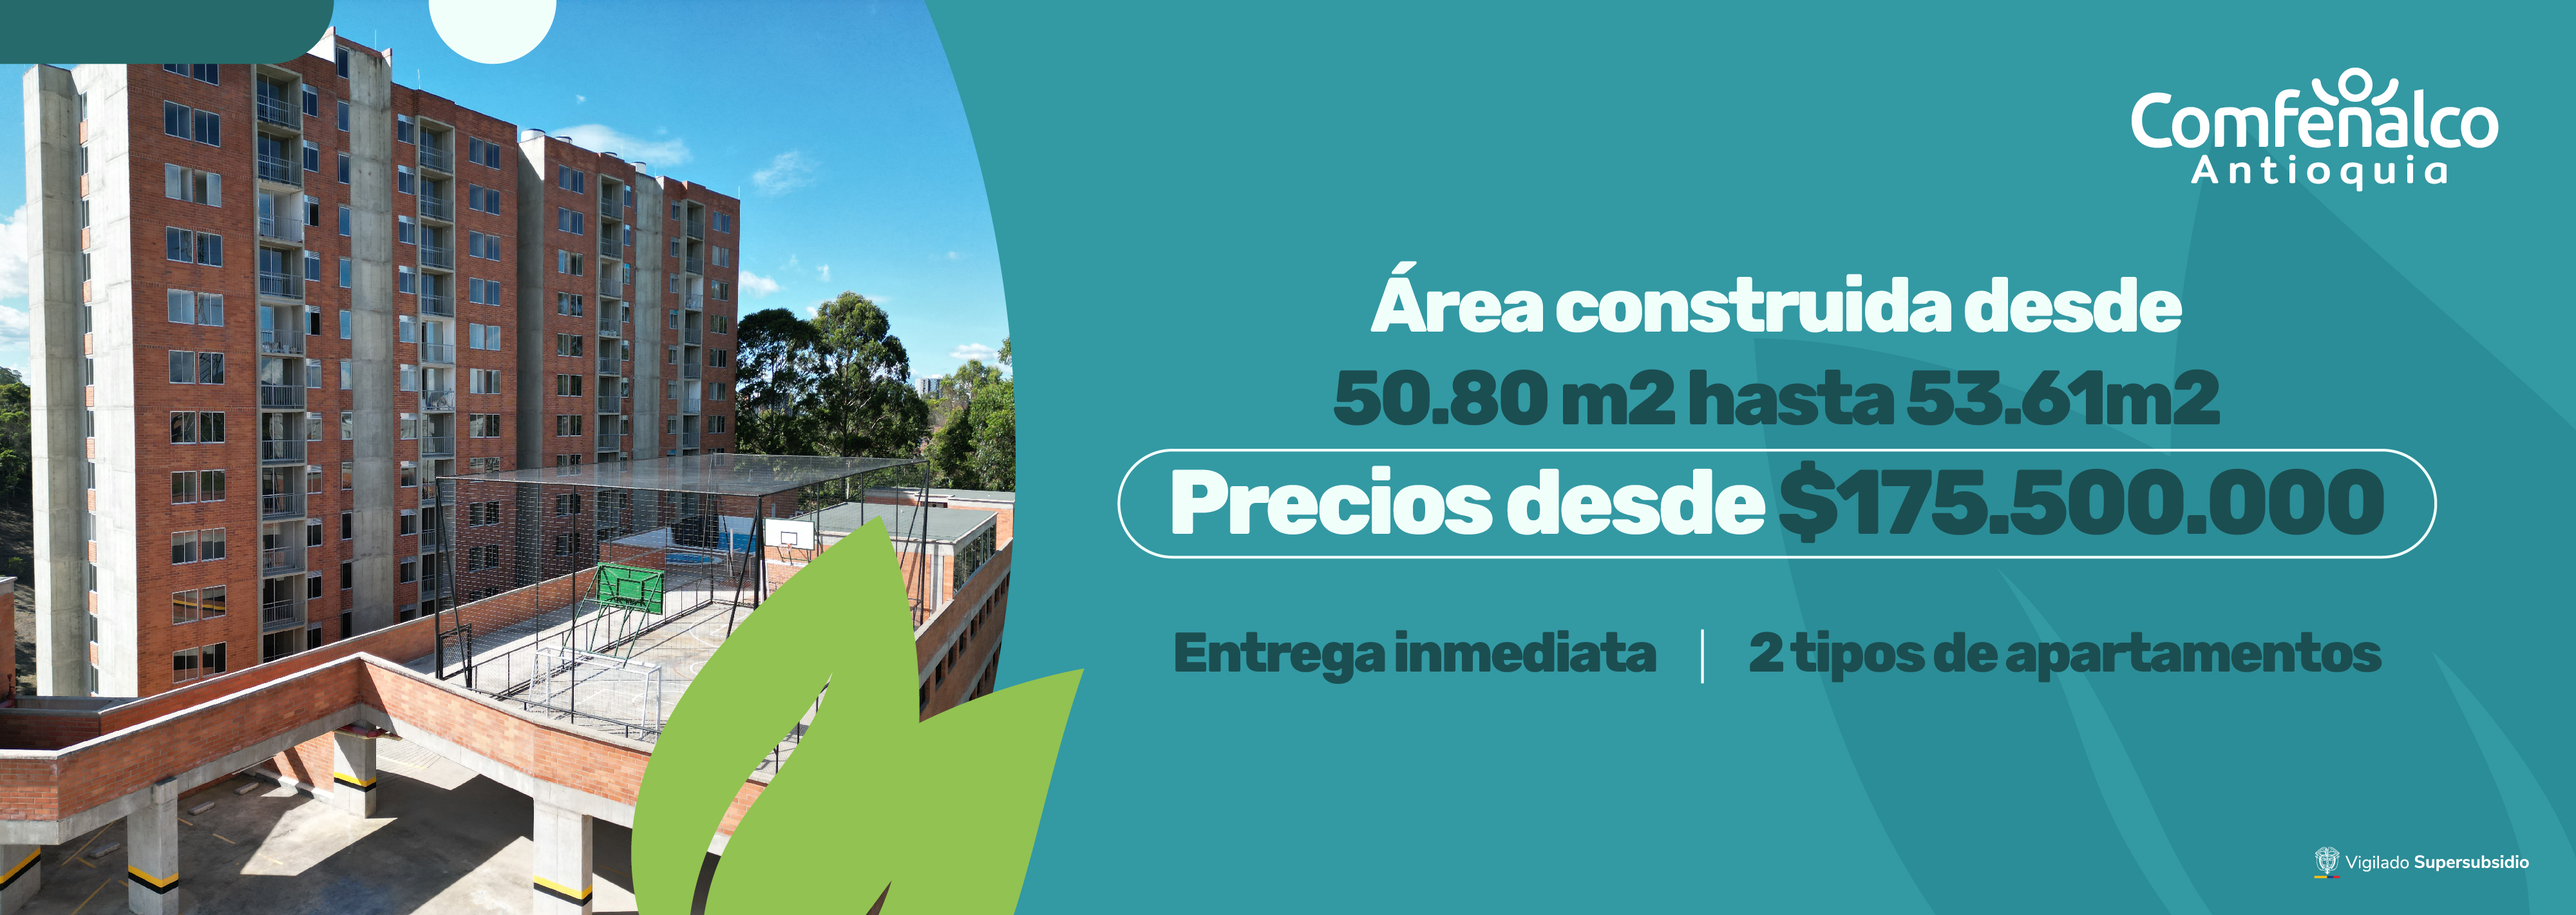
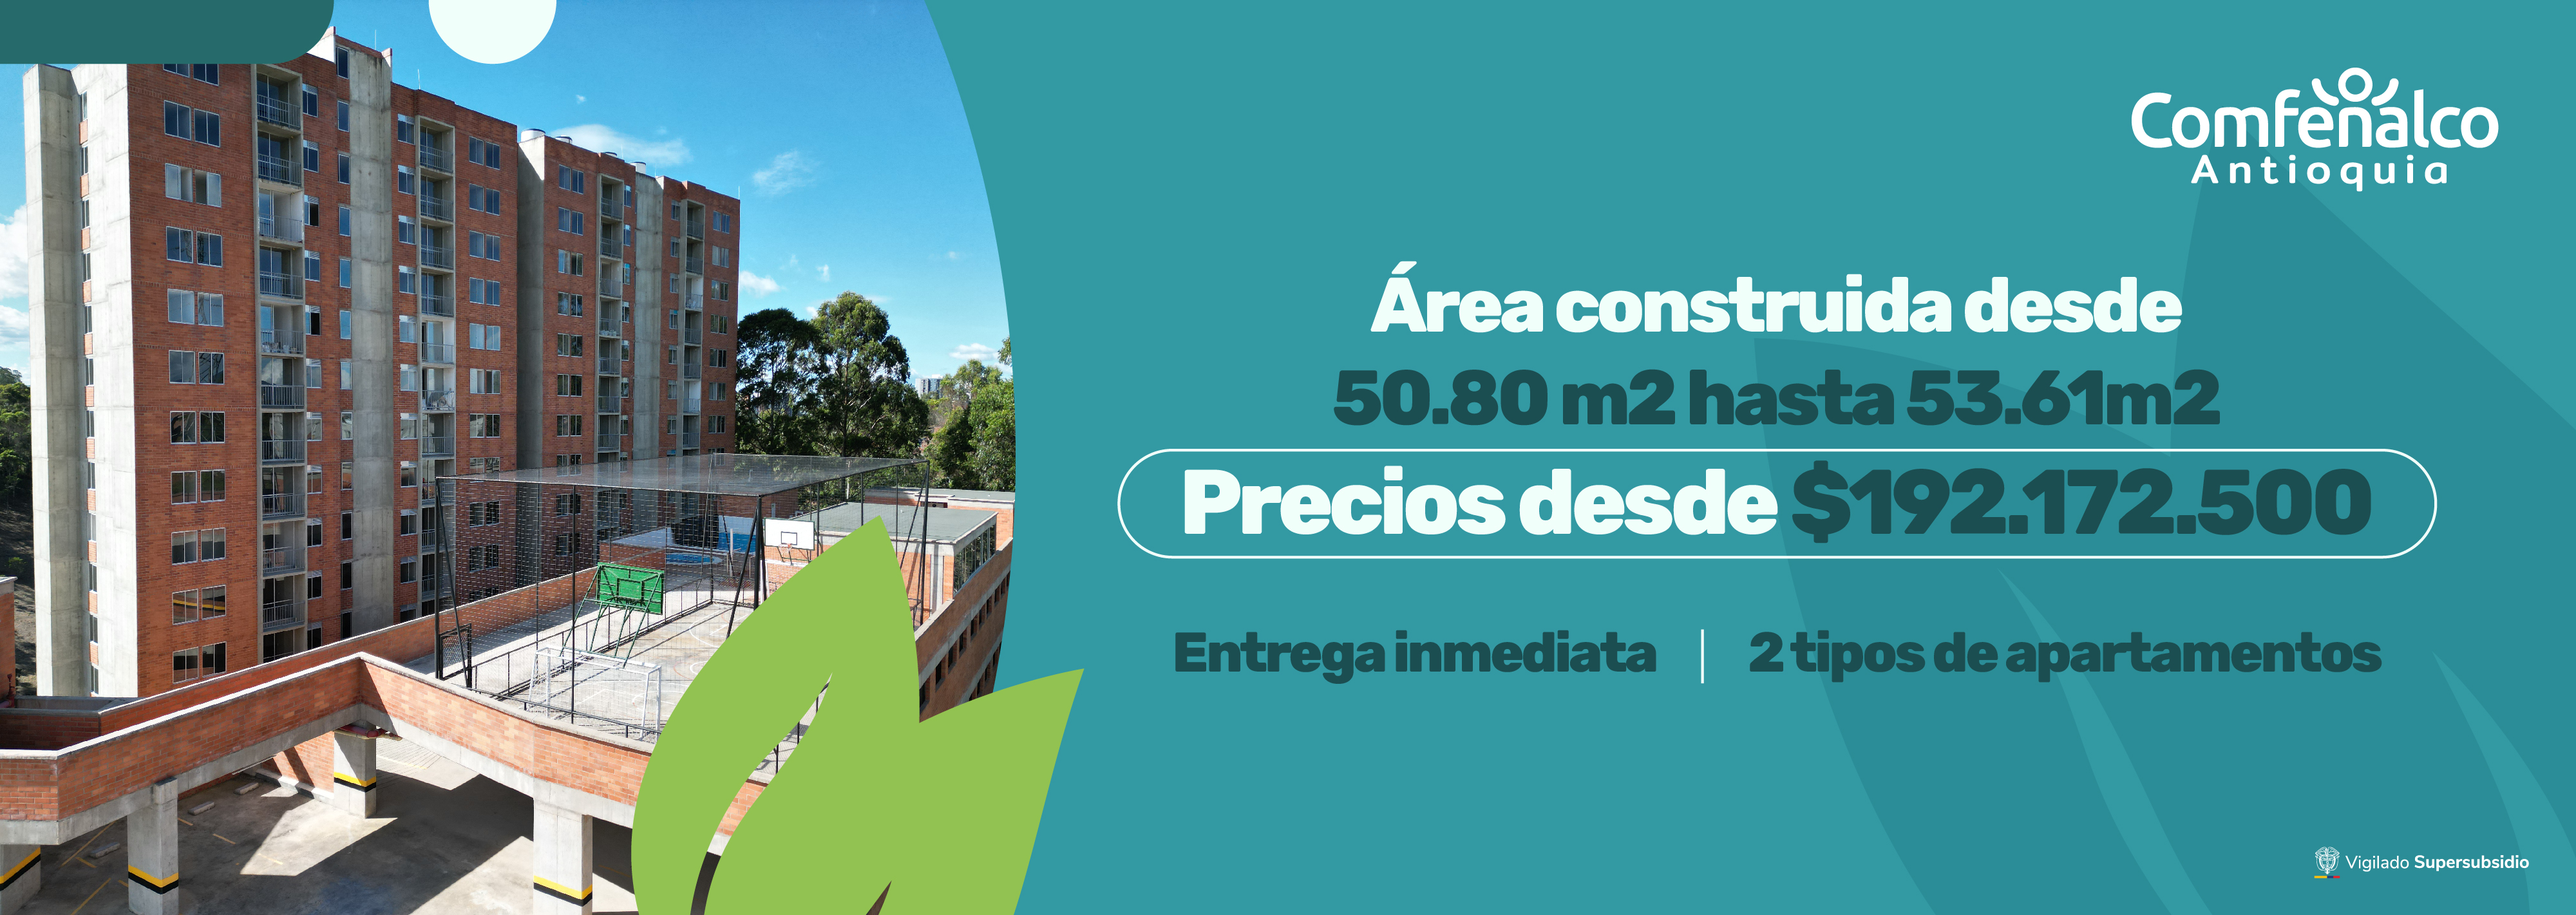
Cambio Banner1

Changed region(s): [[0.4375, 0.4954, 0.9375, 0.5883]]

diff --git a/index.html b/index.html
@@ -16,7 +16,7 @@
     <hr>
     <section class="container">
         <div class="row">
-            <h3>¡Hola |[sh:cliente_nombre]|</h3>
+            <h3>¡Hola |[sh:cliente_nombre]|!</h3>
             <p class="col">
                 Este proyecto está ubicado en el municipio de Rionegro en el Oriente antioqueño, en una zona de gran desarrollo, a 5 minutos del parque principal, a 15 minutos del aeropuerto internacional José Maria Córdova y del Hospital San Vicente de Paúl.
             </p>
@@ -73,7 +73,29 @@
                         </ul>
                     </div>
                     
+                    <div class="row g-2">
+                        <div class="col-5 mt-3 alert alert-secondary" role="alert">
+                            <div class="p-3">
+                                Subsidio familiar de Comfenalco Antioquia
+                            </div>
+                        </div>
+                        <div class="col-1"></div>
+                        <div class="col-5 mt-3 alert alert-secondary" role="alert">
+                            <div class="p-3">
+                                Crédito Hipotecario Comfenalco Antioquia
+                            </div>
+                        </div>
 
+                    <div class="row justify-content-evenly">
+                        <img class="col-md-10 img-fluid" src="https://github.com/EderC0gn1t1v4/smarthome/blob/main/assets/img/Banner%202.jpg?raw=true" alt="banner Rio Campestre Vivienda 2024">
+                    </div>
+
+                    <div class="col mt-3">
+                        <h4>Visítanos:</h4>
+                        <p>Calle 51 #60ª-34. Rionegro</p>
+                        <h4>Contáctanos:</h4>
+                        <p>(57) 310 452 0143</p>
+                    </div>
                 </div>
             </div>
             
